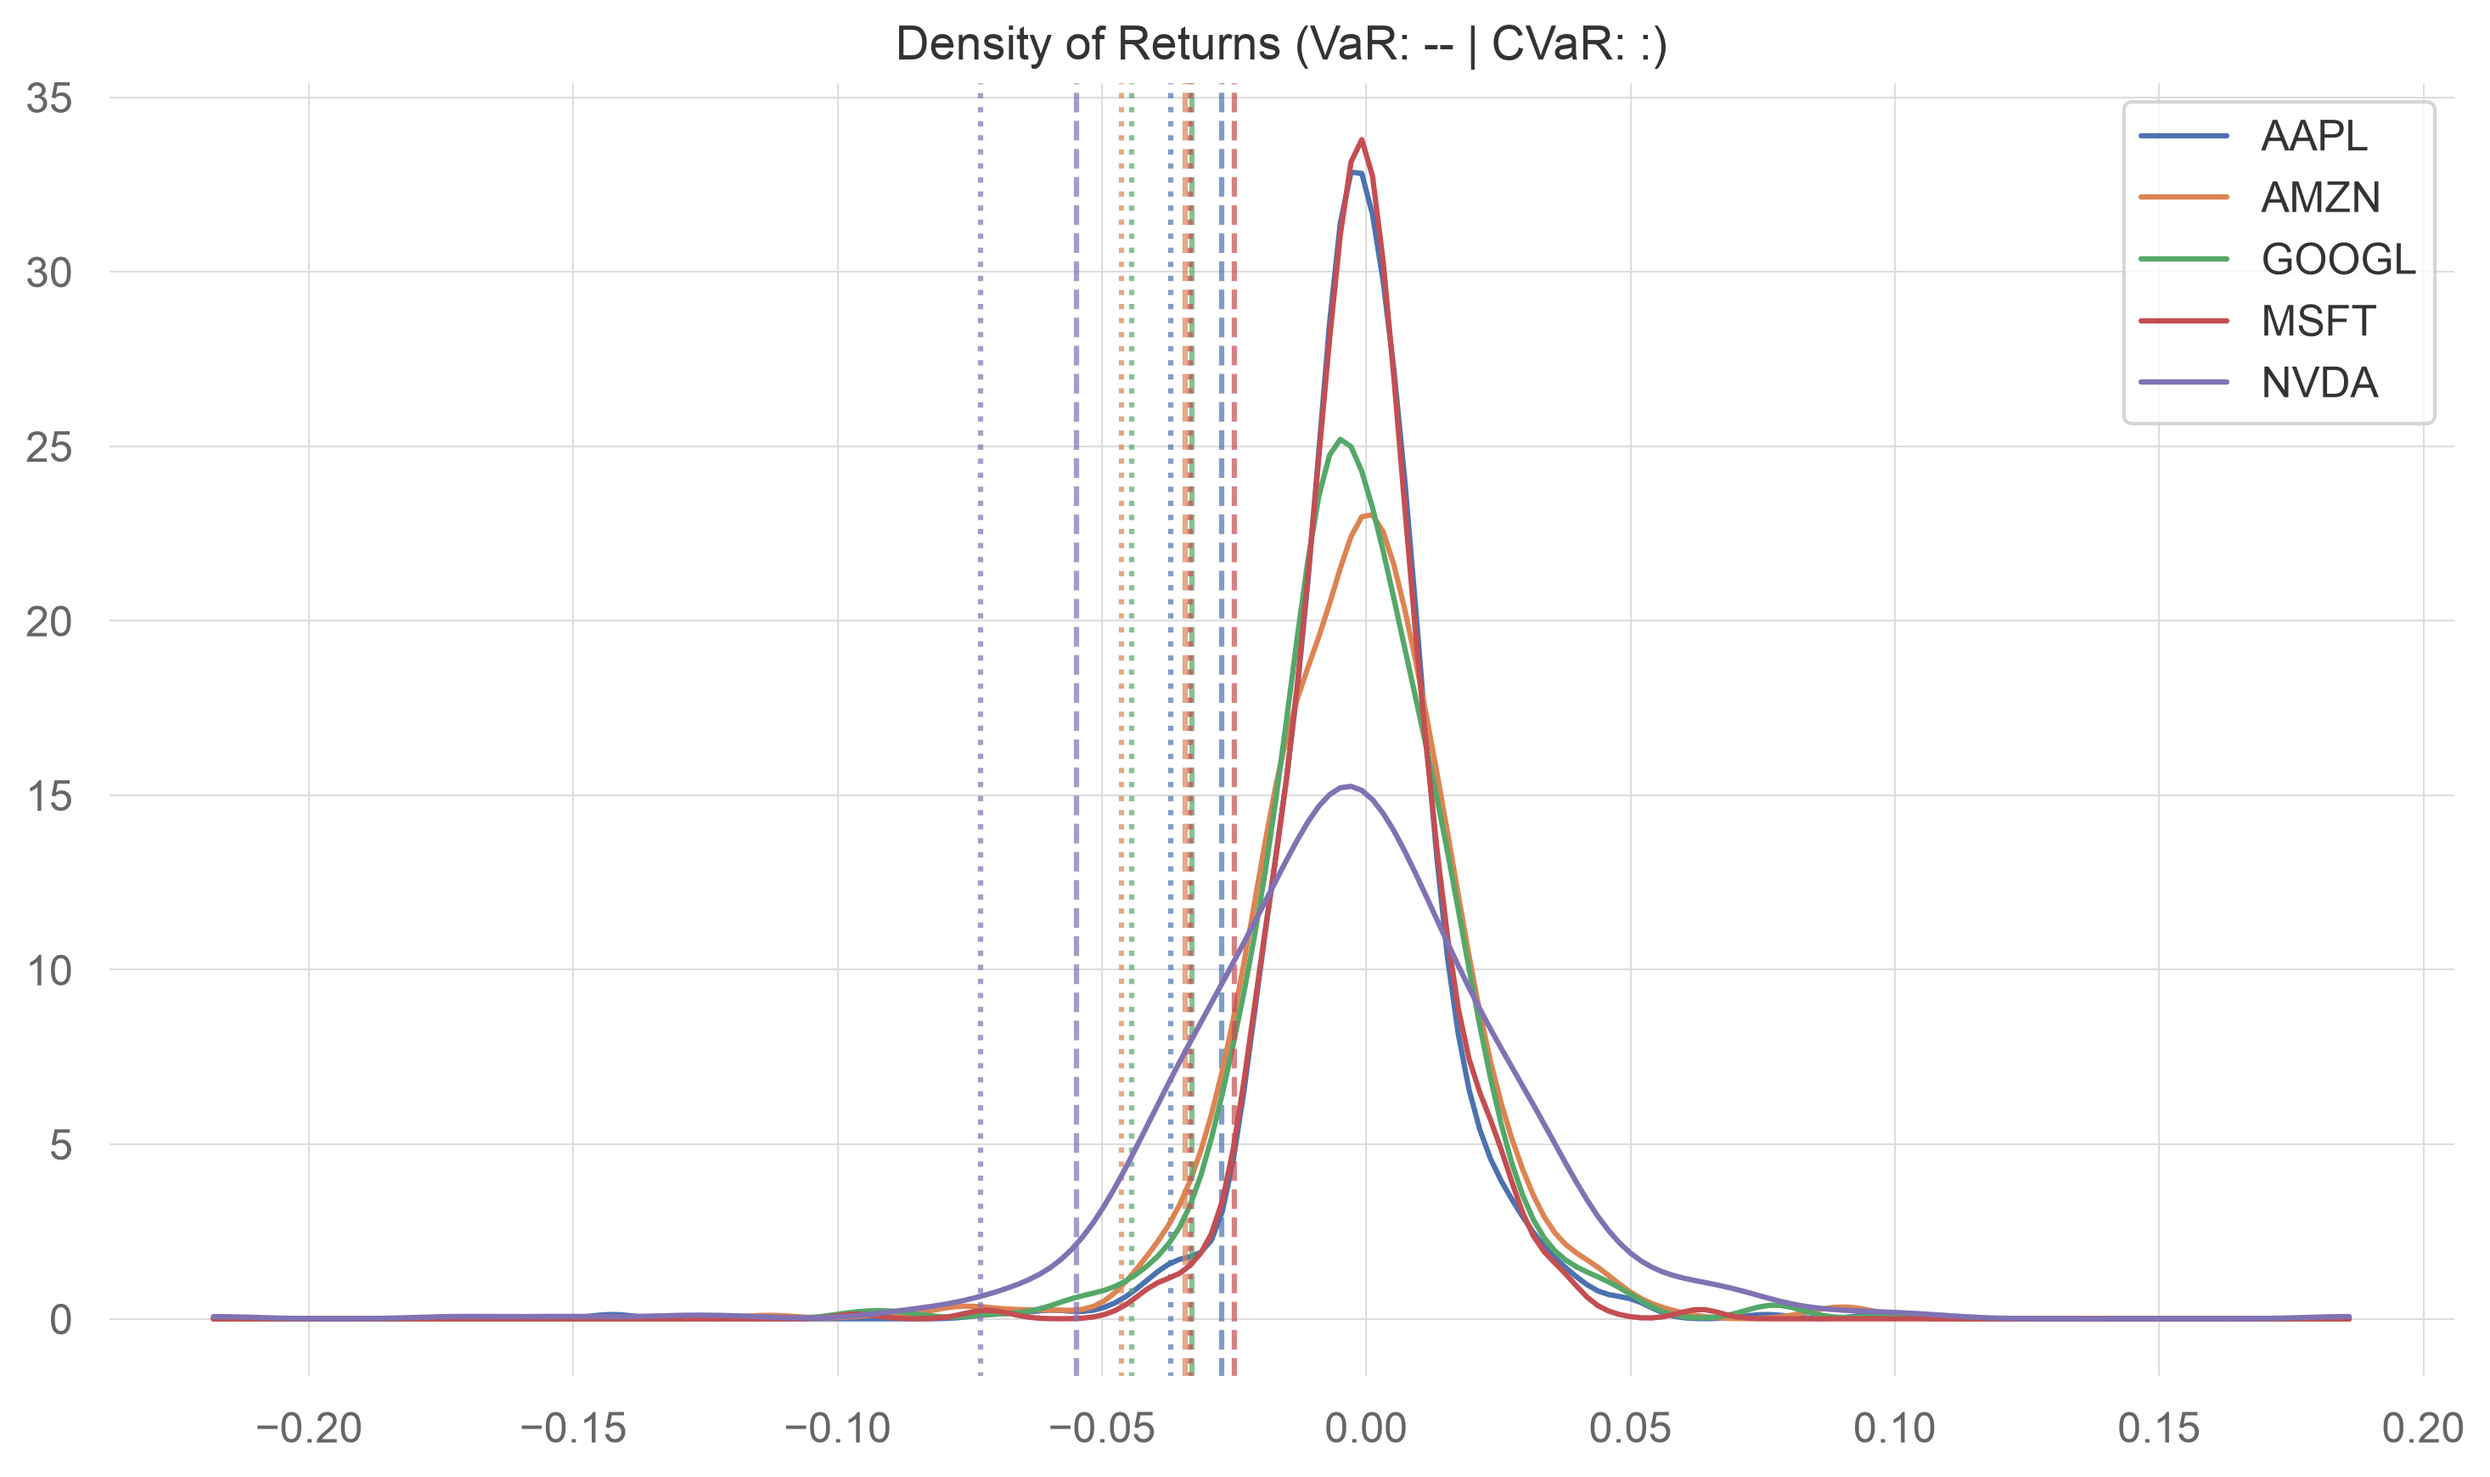
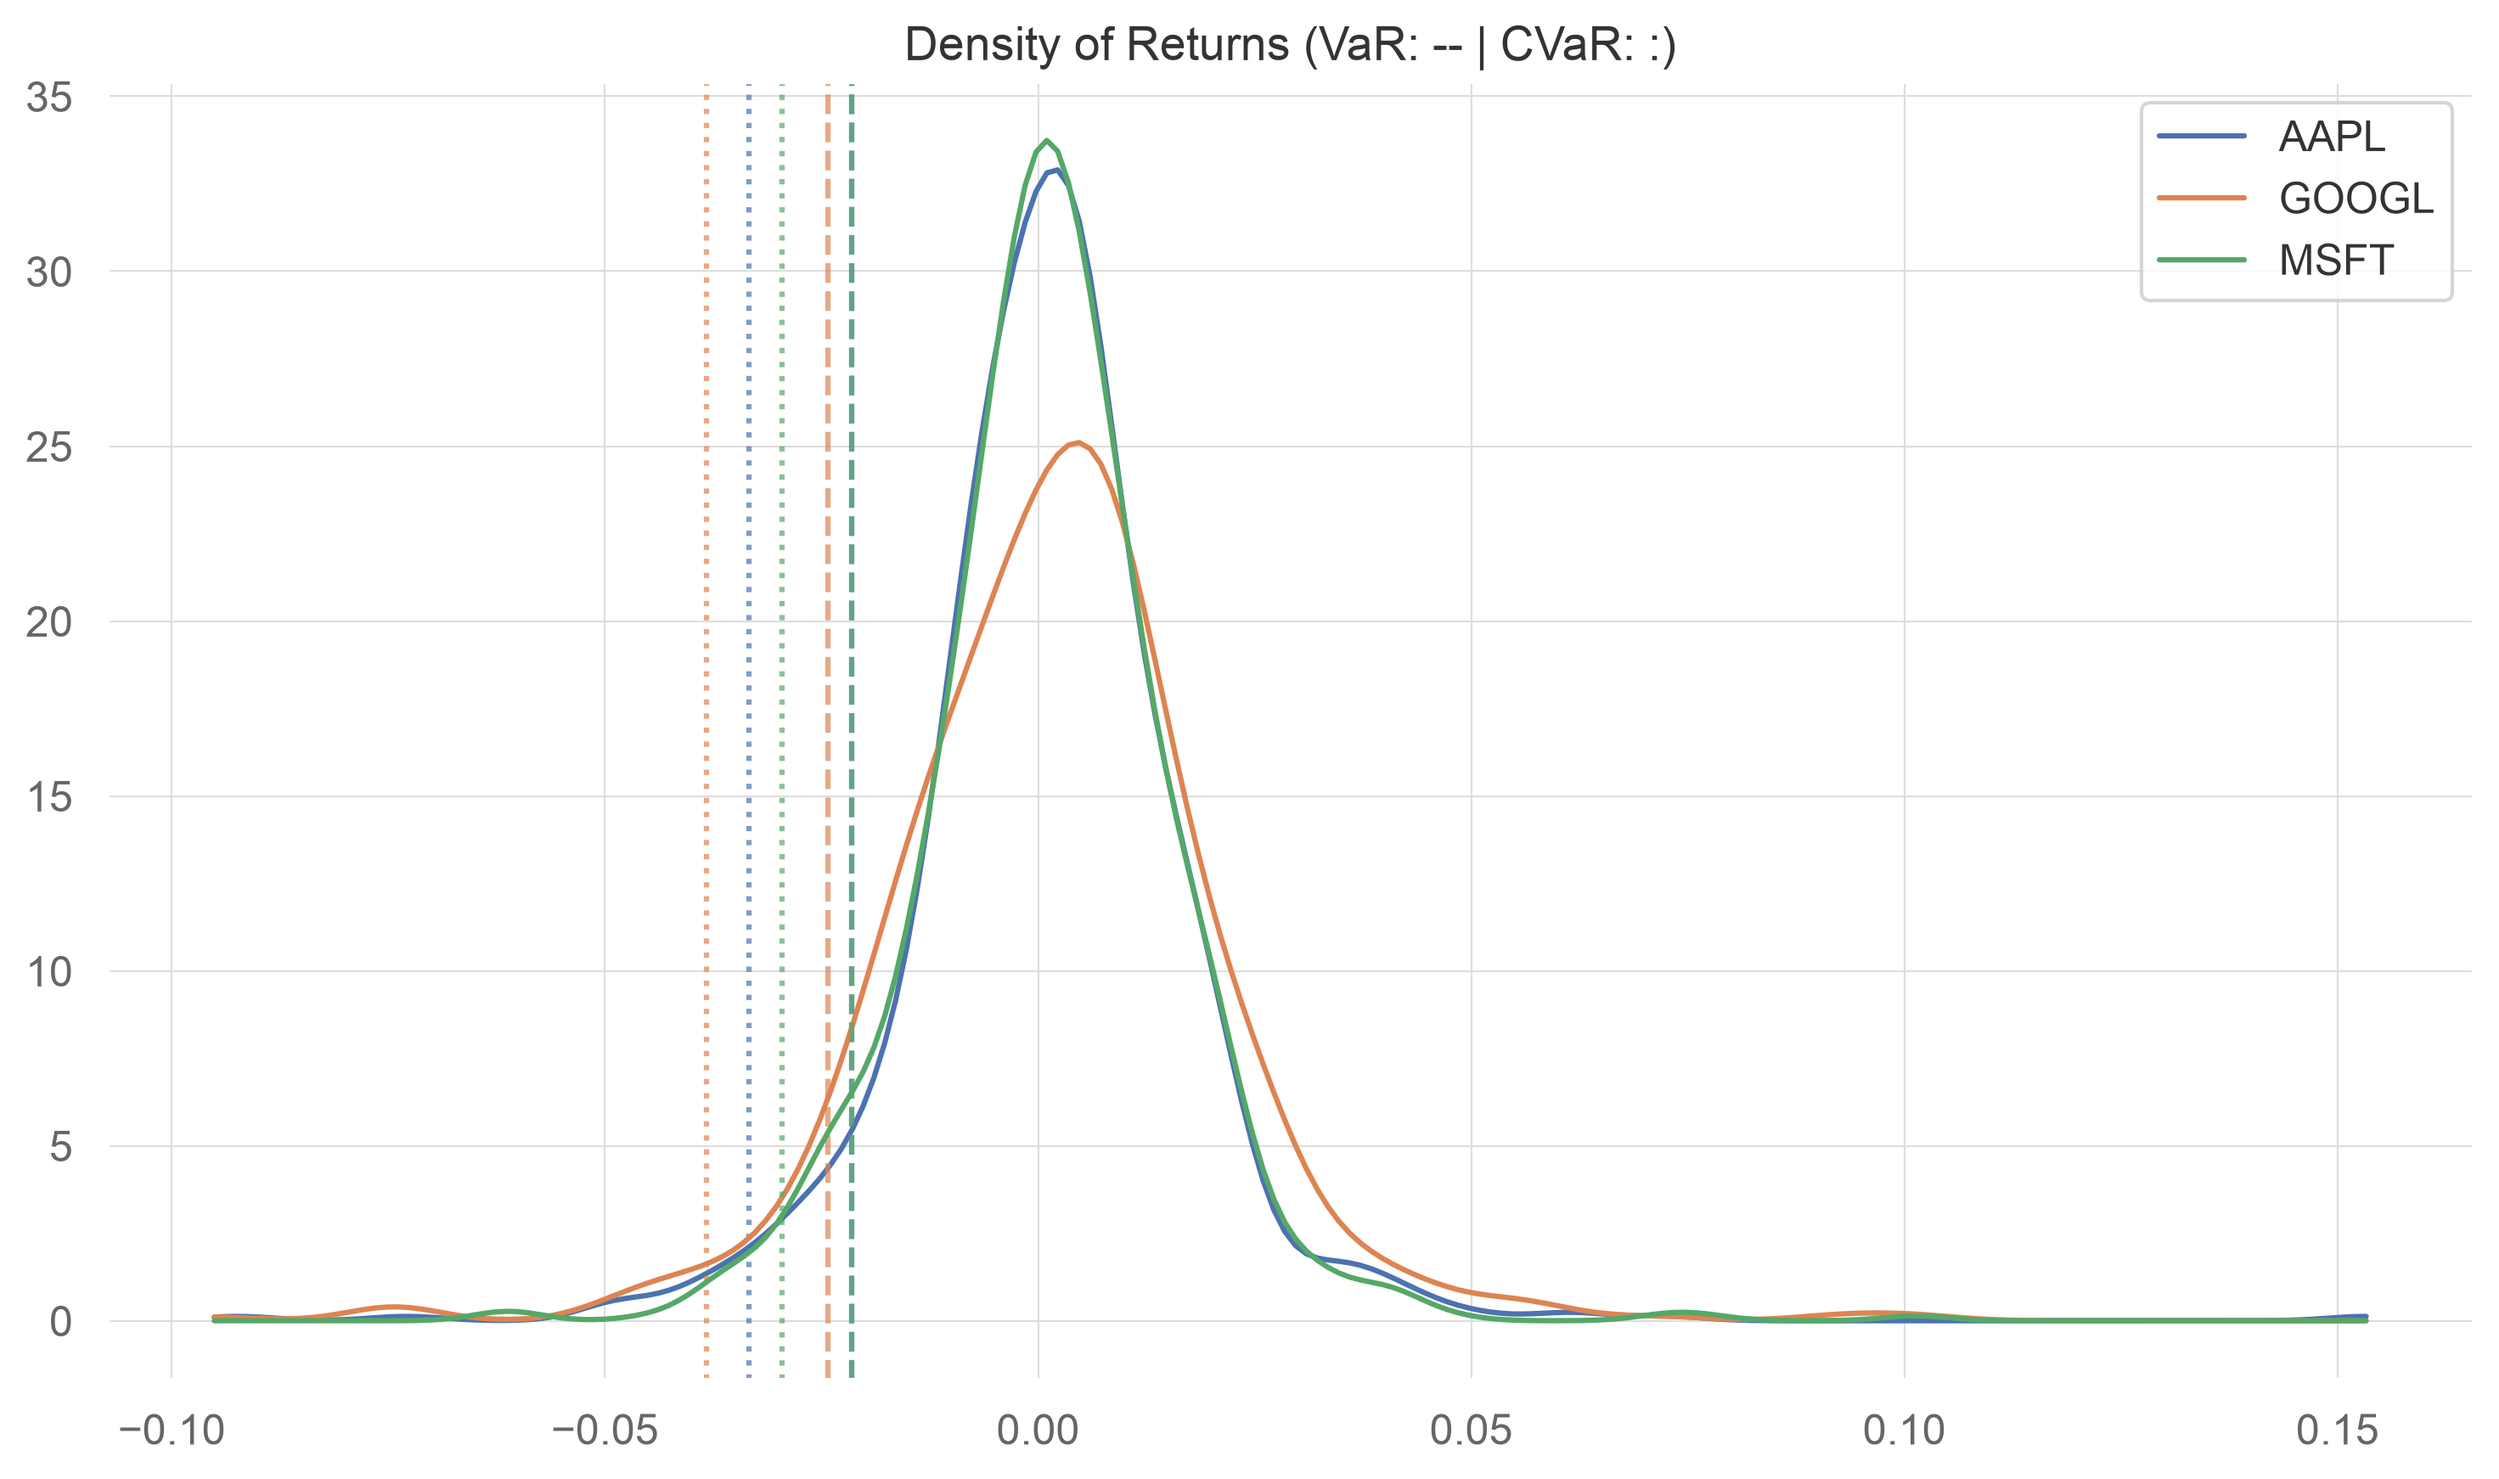
feat: add Streamlit dashboard

diff --git a/src/app.py b/src/app.py
@@ -1,0 +1,57 @@
+import numpy as np
+import pandas as pd
+import streamlit as st
+import matplotlib.pyplot as plt
+from data_loader import fetch_price_data
+from metrics import value_at_risk_historical, value_at_risk_parametrical, portfolio_var_historical, portfolio_var_parametrical, expected_shortfall, sharpe_ratio, MDD
+from visualization import kde_plot
+
+st.title("📊 Risk Analytics Dashboard")
+
+st.sidebar.header("Ustawienia")
+ticker_list = st.sidebar.text_input("Tickery (po przecinku)", "AAPL, MSFT, GOOGL")
+confidence = st.sidebar.slider("Poziom ufności VaR", 0.90, 0.99, 0.95, 0.01)
+weights_input = st.sidebar.text_input("Wagi spółek (po przecinku)", "")
+
+tickers = [t.strip().upper() for t in ticker_list.split(",") if t.strip()]
+
+if tickers:
+    prices = fetch_price_data(tickers, start_date="2023-01-01", end_date="2026-01-01")
+    returns = prices.pct_change().dropna()
+
+    n = len(tickers)
+    if weights_input:
+        try:
+            weights = np.array([float(w.strip()) for w in weights_input.split(",")])
+            weights = weights / weights.sum()
+        except ValueError:
+            st.warning("Niepoprawny format wag. Zastosowano równe wagi.")
+            weights = np.ones(n) / n
+    else:
+        weights = np.ones(n) / n
+
+    port_var_hist = portfolio_var_historical(returns, confidence, weights)
+    port_var_param = portfolio_var_parametrical(returns, confidence, weights)
+
+    st.subheader("🎯 Podsumowanie Portfela")
+    col1, col2, col3 = st.columns(3)
+    col1.metric(label=f"Portfel VaR Hist. ({confidence:.0%})", value=f"{port_var_hist:.2%}")
+    col2.metric(label=f"Portfel VaR Param. ({confidence:.0%})", value=f"{port_var_param:.2%}")
+    col3.caption(f"**Struktura wag:** {', '.join([f'{t}: {w:.0%}' for t, w in zip(tickers, weights)])}")
+
+    st.divider()
+
+    var_hist = value_at_risk_historical(returns, confidence_interval=confidence)
+    var_param = value_at_risk_parametrical(returns, confidence_interval=confidence)
+    es_hist = expected_shortfall(returns, historical_var=var_hist)
+    sharpe = sharpe_ratio(returns)
+    mdd = MDD(prices)
+
+    st.subheader(f"📊 Metryki ryzyka dla poszczególnych spółek (Poziom ufności: {confidence:.0%})")
+    summary_df = pd.DataFrame({"Waga": weights, "VaR Hist.": var_hist, "VaR Param.": var_param, "Expected Shortfall": es_hist, "Sharpe Ratio": sharpe, "Max Drawdown": mdd}, index=tickers)
+
+    st.dataframe(summary_df.style.format({"Waga": "{:.1%}", "VaR Hist.": "{:.2%}", "VaR Param.": "{:.2%}", "Expected Shortfall": "{:.2%}", "Sharpe Ratio": "{:.2f}", "Max Drawdown": "{:.2%}"}), use_container_width=True)
+
+    st.subheader("📈 Rozkład stóp zwrotu (KDE)")
+    fig_kde = kde_plot(returns, var=var_hist, cvar=es_hist)
+    st.pyplot(fig_kde)

diff --git a/src/metrics.py b/src/metrics.py
@@ -45,3 +45,19 @@ def value_at_risk_parametrical(df,confidence_interval=0.95):
 def expected_shortfall(df,historical_var):
     tail_returns = df[df < -historical_var]
     return tail_returns.mean() * -1
+
+
+def portfolio_var_parametrical(returns_df, confidence_interval, weights):
+    w = np.array(weights)
+    means = returns_df.mean()
+    cov = returns_df.cov()
+    weighted_means = w @ means
+    weighted_variance = w.T @ cov @ w
+    z = stats.norm.ppf(confidence_interval)
+    return z * np.sqrt(weighted_variance) - weighted_means
+
+
+def portfolio_var_historical(returns_df, confidence_interval, weights):
+    w = np.array(weights)
+    portfolio_returns = returns_df @ w
+    return portfolio_returns.quantile(1 - confidence_interval) * -1

diff --git a/src/data_loader.py b/src/data_loader.py
@@ -1,7 +1,9 @@
 import yfinance as yf
 import pandas as pd
 from typing import List
+import streamlit as st
 
+@st.cache_data
 def fetch_price_data(tickers: List[str], start_date: str, end_date: str) -> pd.DataFrame:
     data = yf.download(tickers, start=start_date, end=end_date)['Close']
     if isinstance(data, pd.Series):
